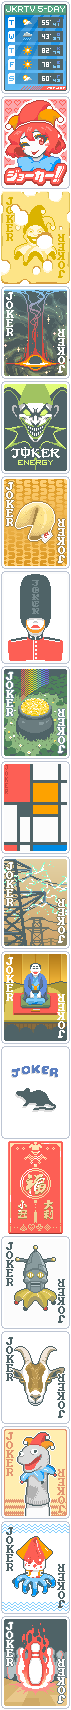
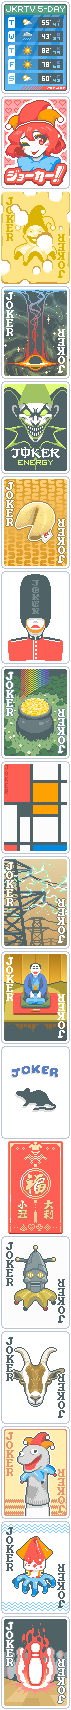
scapegoat

Changed region(s): [[0.1972, 0.7749, 0.8169, 0.8368]]

diff --git a/index.html b/index.html
@@ -112,6 +112,7 @@
 					<img src="assets/originals/irish.png" />
 					<img src="assets/originals/rakugo.png" />
 					<img src="assets/originals/rats.png" />
+					<img src="assets/originals/scapegoat.png" />
 				</div>
 			</div>
 		</main>
